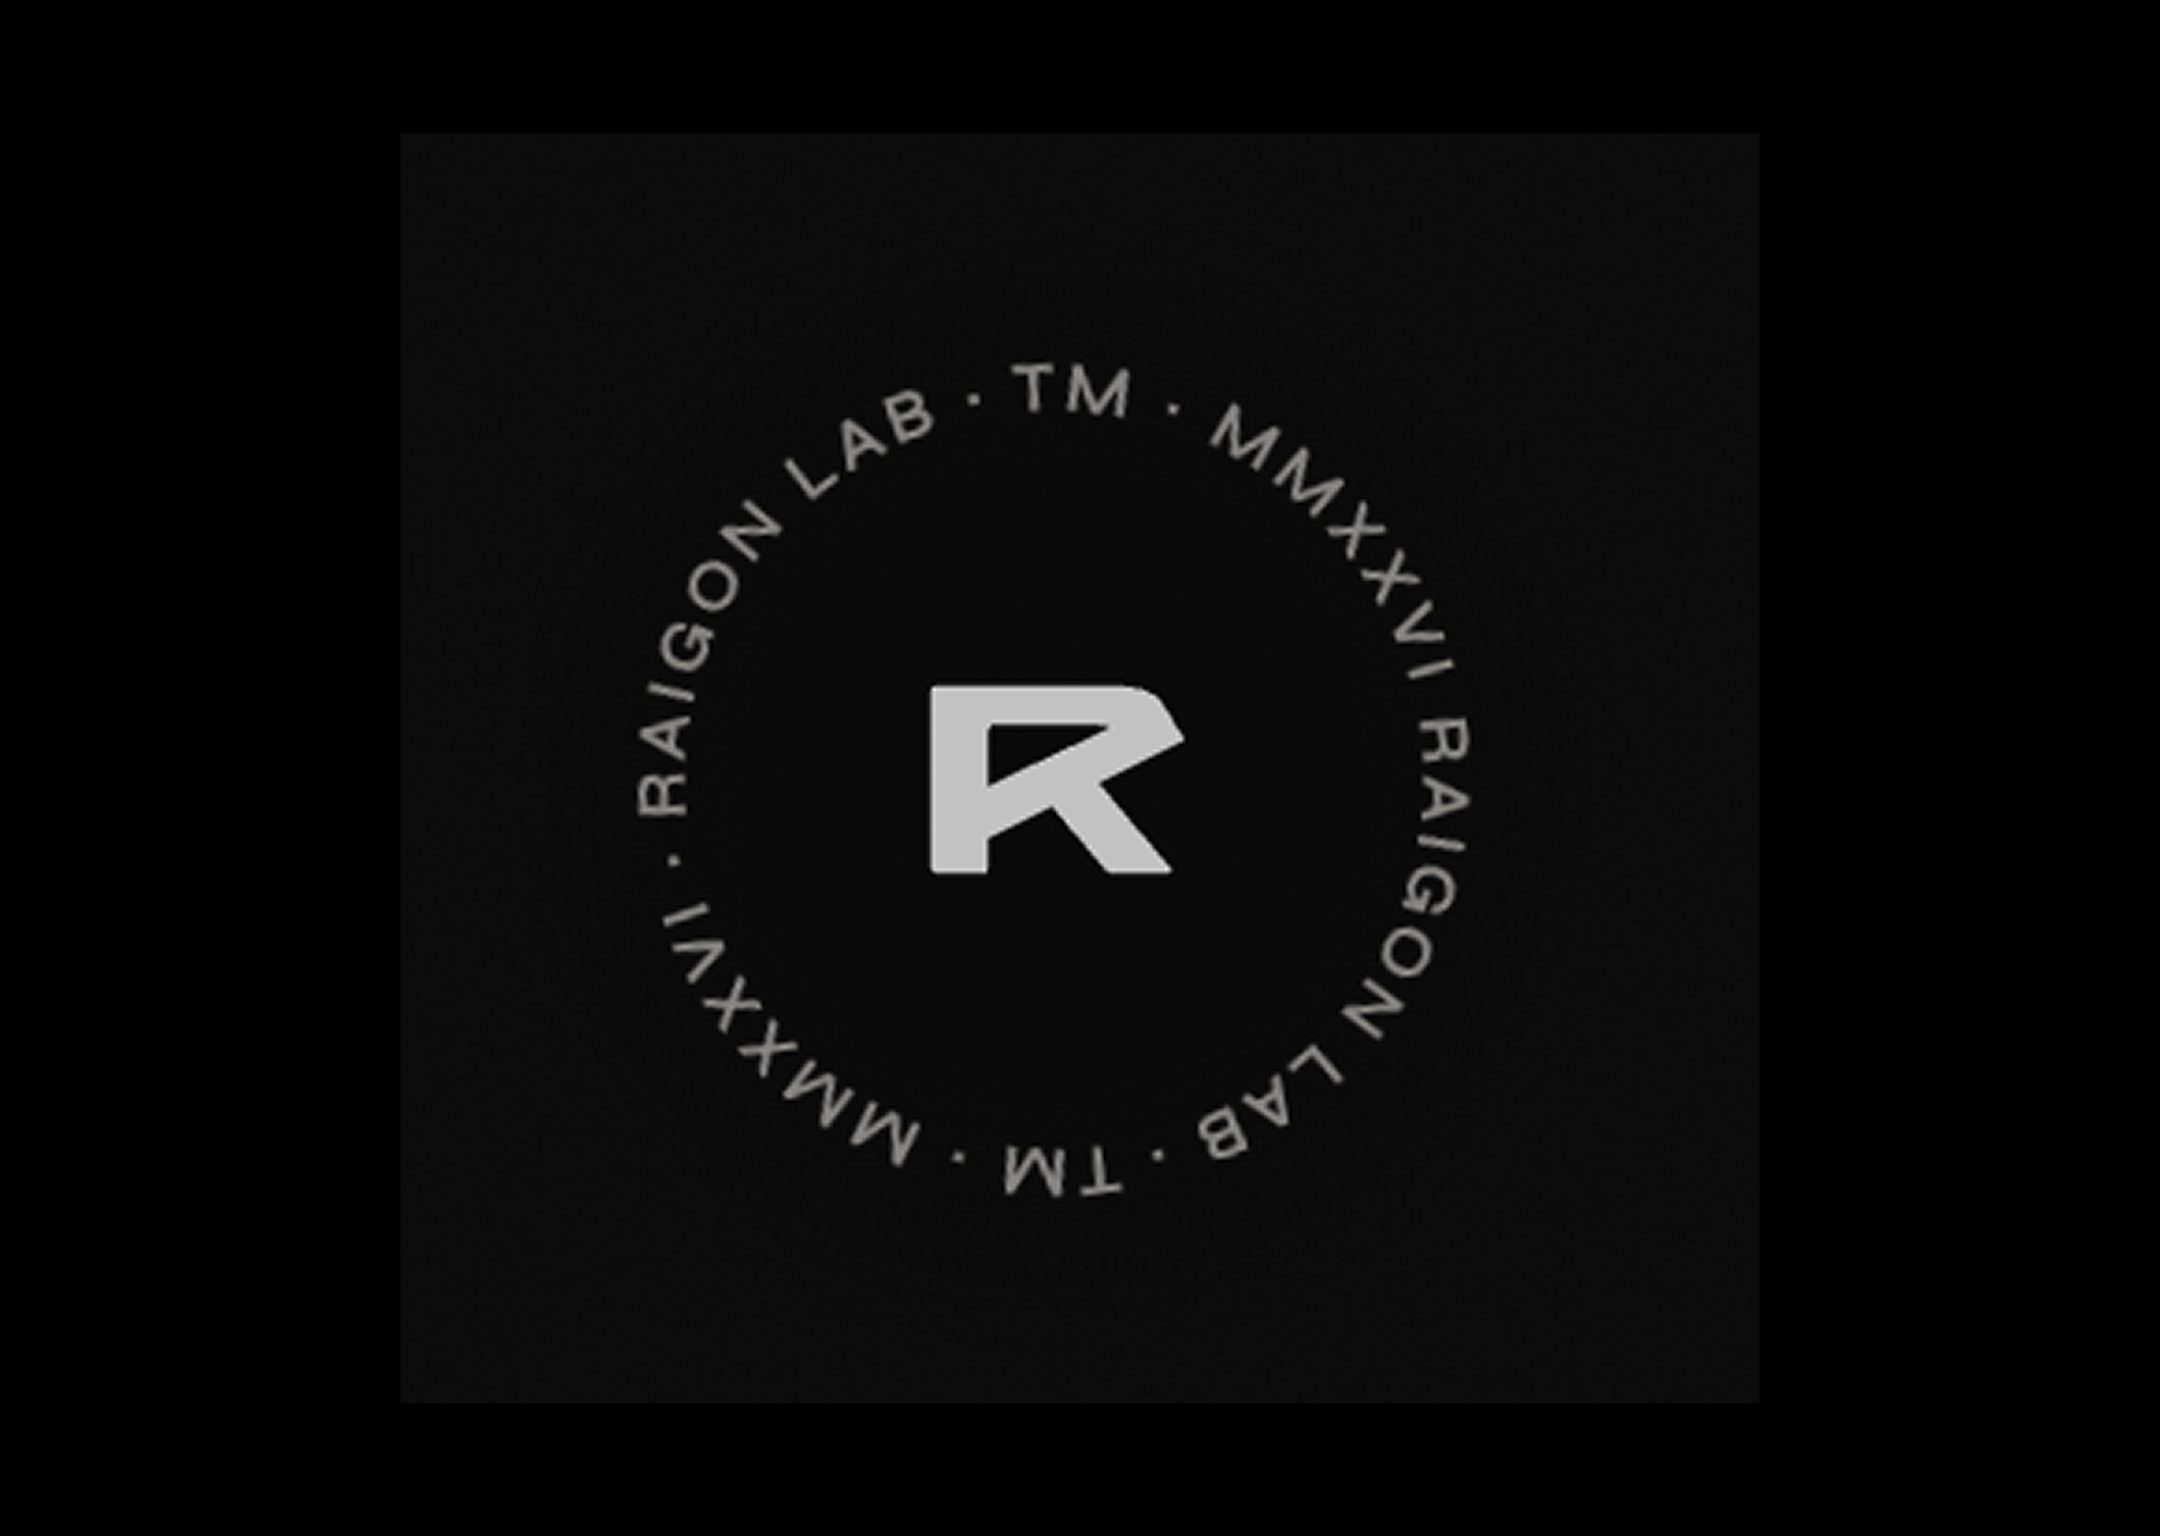
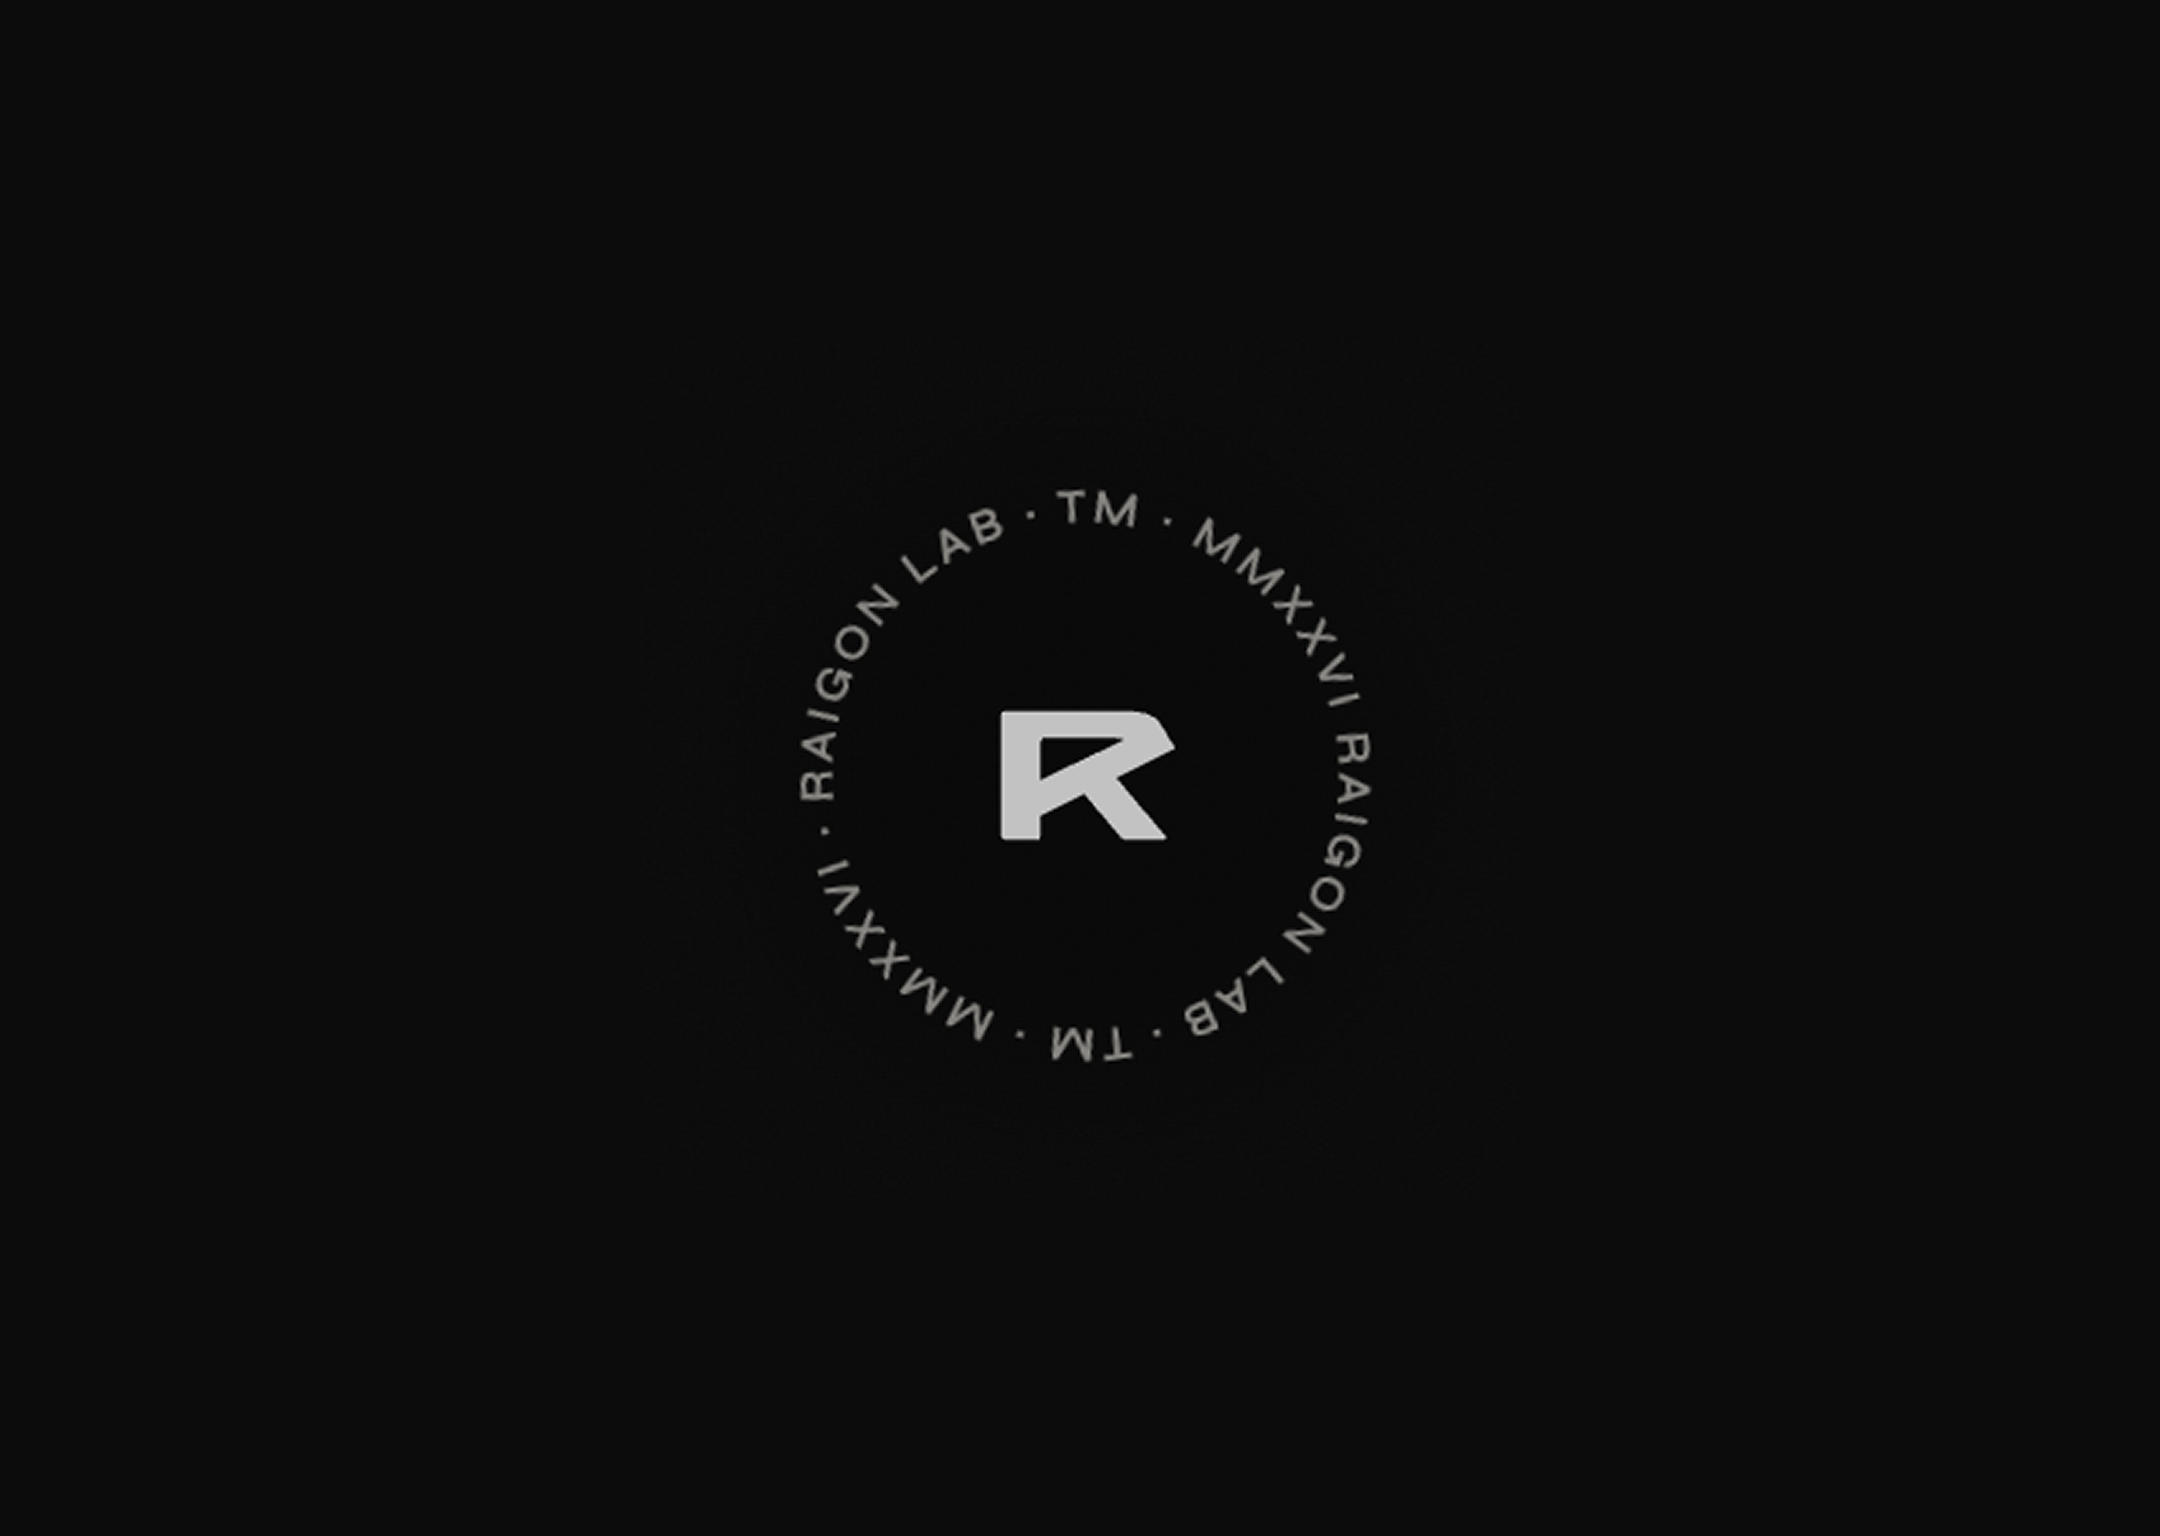
Style(home): keep card sizes small (160px target), 4 columns with 48px gap; update home thumbnails

diff --git a/assets/js/home-marquee.js b/assets/js/home-marquee.js
@@ -43,9 +43,9 @@
   const ROW_GAP   = 32;
   const COL_GAP   = 48;
   const SPEED     = 0.22;
-  const TARGET_COL_W = 200;
+  const TARGET_COL_W = 160;
   const MAX_COLS  = 4;
-  const MAX_COL_W = 300;
+  const MAX_COL_W = 180;
   const ASPECT    = 1.3;
   const reduceMotion = window.matchMedia('(prefers-reduced-motion: reduce)').matches;
 